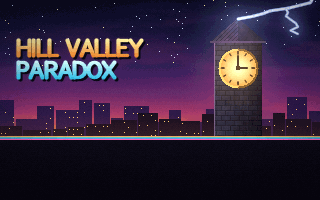
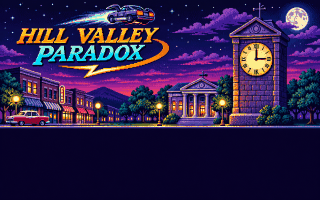
Eigenes Titelbild des Nutzers, Lademenü im dunklen Streifen
Vom Nutzer gezeichnete Bilder stehen in EIGENE_BILDER und werden von
npm run paint auch mit --force nie übermalt.

diff --git a/src/engine/TitleScene.ts b/src/engine/TitleScene.ts
@@ -10,6 +10,7 @@ const COLOR_NORMAL = UI_TEXT;
 const COLOR_HOVER = UI_AMBER;
 const COLOR_DIM = UI_DIM;
 const ROW_H = 10;
+const LOAD_ROW_H = 9;
 
 interface Row {
   label: Phaser.GameObjects.BitmapText;
@@ -22,6 +23,7 @@ export class TitleScene extends Phaser.Scene {
   private rows: Row[] = [];
   private message = '';
   private top = 142;
+  private rowH = ROW_H;
 
   constructor() {
     super('title');
@@ -58,7 +60,7 @@ export class TitleScene extends Phaser.Scene {
   }
 
   private addRow(text: string, action?: () => void): void {
-    const y = this.top + this.rows.length * ROW_H;
+    const y = this.top + this.rows.length * this.rowH;
     const label = this.add
       .bitmapText(160, y, 'hv', text, 10)
       .setOrigin(0.5, 0)
@@ -69,6 +71,7 @@ export class TitleScene extends Phaser.Scene {
   private showMain(): void {
     this.clear();
     this.top = 148;
+    this.rowH = ROW_H;
     this.addRow(t('title.neu'), () => this.startGame());
     this.addRow(t('title.laden'), () => this.showLoad());
     this.addRow(this.soundLabel(), () => {
@@ -83,7 +86,9 @@ export class TitleScene extends Phaser.Scene {
 
   private showLoad(): void {
     this.clear();
-    this.top = this.message ? 108 : 118;
+    // Das Lademenü liegt im dunklen Streifen unter dem Bild; mit Meldung reicht der Platz nicht ganz.
+    this.top = this.message ? 118 : 127;
+    this.rowH = LOAD_ROW_H;
     if (this.message) this.addRow(this.message);
     for (let slot = 0; slot < SLOT_COUNT; slot++) {
       const file = SaveSystem.peek(slot);
@@ -123,7 +128,7 @@ export class TitleScene extends Phaser.Scene {
   }
 
   private rowAt(y: number): Row | undefined {
-    return this.rows.find((row) => y >= row.y && y < row.y + ROW_H);
+    return this.rows.find((row) => y >= row.y && y < row.y + this.rowH);
   }
 
   private highlight(y: number): void {

diff --git a/tools/paint/build.ts b/tools/paint/build.ts
@@ -106,6 +106,9 @@ const UI: Record<string, () => Picture> = {
   menu: U.menu,
 };
 
+/** Vom Nutzer gezeichnete Bilder: Sie werden nie übermalt, auch nicht mit --force oder Namensfilter. */
+const EIGENE_BILDER = new Set(['titel']);
+
 const args = process.argv.slice(2);
 const force = args.includes('--force');
 const filter = args.find((a) => !a.startsWith('--'));
@@ -113,7 +116,7 @@ const filter = args.find((a) => !a.startsWith('--'));
 let painted = 0;
 let kept = 0;
 const run = (name: string, path: string, paint: () => Picture, transparent: boolean): void => {
-  if (filter && !name.includes(filter)) return;
+  if (EIGENE_BILDER.has(name) || (filter && !name.includes(filter))) return;
   if (!filter && !force && existsSync(path)) {
     kept++;
     return;

diff --git a/CLAUDE.md b/CLAUDE.md
@@ -22,7 +22,7 @@ Point-&-Click-Adventure im SCUMM-Stil. Phaser 4, TypeScript, Vite, inkjs, navmes
 - **Jede Aktion bekommt eine Antwort.** Reihenfolge: Hotspot-Skript → Kombinationsregel → objektspezifischer Kommentar (`comments` am Hotspot, dann Reaktionstabellen) → Standardspruch der Figur.
 - **Reaktionstabellen in `de.json`:** `reaktion.<raum>_<jahr>.<hotspot>.<verb>`, dazu `mit_<gegenstand>`, `mit` und `gib` für zwei Objekte; `reaktion_item.<gegenstand>.<verb>`, dazu `mit_<gegenstand>`, `benutze_mit` und `gib_an`. Ein Wert ist ein Text der aktiven Figur oder `["sprecher", "Text"]`. Standardsprüche unter `comments.<figur>`, mit eigenen Pools `person`, `ausgang`, `gegenstand` und je Zeitebene `e<jahr>`. `tests/m8-texte.spec.ts` meldet tote oder falsch zugeordnete Einträge. Reaktionen dürfen nichts am Spielstand ändern und müssen zu jedem Zustand der Klickfläche passen.
 - **Stimmen:** Marty lässig, kurz, ironisch. Junger Doc zögerlich („vermutlich“, „das sollte ich notieren“). Doc mit Ausrufen und „Das ist ein Problem!“. Die Tannens verdrehen Sprichwörter. Dialoge haben höchstens 4 Antworten je Knoten; Nebengespräche liegen in eigenen Knoten, Rätselantworten bleiben auf der ersten Ebene.
-- **Grafik:** Hintergründe, große Sprites, Titelbild, Oberfläche (`ui.ts`), Gegenstände (`items.ts`) und Figuren (`figuren.ts`), die letzten beiden in sechsfacher Größe gemalt und verkleinert, malt `tools/paint/` in Echtfarben (`painter.ts`, Materialien in `kit.ts`, je Ort ein Modul); jedes Bild bekommt dann seine eigene 256-Farben-Palette. Stil: The Dig, Full Throttle, jede Zeitebene mit eigener Stimmung. Klickflächen stehen in `src/game/rooms/` und bestimmen, wo gemalt wird. Kleine Sprites kommen aus `tools/pixel/` mit der festen 64-Farben-Palette (`assets/palette.gpl`). Die Spielschrift steht in `tools/pixel/font.ts` (`#` voll, `+` halb hell für Rundungen; Tint färbt sie), die Schrift auf gemalten Schildern getrennt in `tools/paint/schrift.ts` (Stile `antiqua`, `block`, `western`, `neon`, Stämme auf dem Pixelraster); `schild.ts` liefert nur noch Einzelzeichen für Gegenstände und das Breitenmaß. Die Farben der Oberfläche stehen in `src/engine/theme.ts`. Eigene PNGs gleichen Namens ersetzen jedes Bild; `npm run paint` lässt vorhandene Dateien liegen. Keine Filmgesichter, keine Filmkostüme und kein Film-Fahrzeug zeichnen: Die Figuren tragen die Namen der Geschichte, sehen aber erfunden aus.
+- **Grafik:** Hintergründe, große Sprites, Titelbild, Oberfläche (`ui.ts`), Gegenstände (`items.ts`) und Figuren (`figuren.ts`), die letzten beiden in sechsfacher Größe gemalt und verkleinert, malt `tools/paint/` in Echtfarben (`painter.ts`, Materialien in `kit.ts`, je Ort ein Modul); jedes Bild bekommt dann seine eigene 256-Farben-Palette. Stil: The Dig, Full Throttle, jede Zeitebene mit eigener Stimmung. Klickflächen stehen in `src/game/rooms/` und bestimmen, wo gemalt wird. Kleine Sprites kommen aus `tools/pixel/` mit der festen 64-Farben-Palette (`assets/palette.gpl`). Die Spielschrift steht in `tools/pixel/font.ts` (`#` voll, `+` halb hell für Rundungen; Tint färbt sie), die Schrift auf gemalten Schildern getrennt in `tools/paint/schrift.ts` (Stile `antiqua`, `block`, `western`, `neon`, Stämme auf dem Pixelraster); `schild.ts` liefert nur noch Einzelzeichen für Gegenstände und das Breitenmaß. Die Farben der Oberfläche stehen in `src/engine/theme.ts`. Eigene PNGs gleichen Namens ersetzen jedes Bild; `npm run paint` lässt vorhandene Dateien liegen. Vom Nutzer gezeichnete Bilder stehen in `EIGENE_BILDER` (`tools/paint/build.ts`) und werden auch mit `--force` nie übermalt. Keine Filmgesichter, keine Filmkostüme und kein Film-Fahrzeug zeichnen: Die Figuren tragen die Namen der Geschichte, sehen aber erfunden aus.
 - **Figuren:** nur über `assets/characters/characters.json`. Sprites in `assets/characters/<figur>/<figur>_<animation>.png`, 40×72 je Frame, alle Frames in einer Zeile; die Frame-Anzahl ergibt sich aus der Bildbreite. Aussehen und Gerüst stehen in `tools/paint/figuren.ts` (`LOOKS`). `height` in `characters.json` ist die Figurenhöhe, darüber stehen die Sprechtexte. Fehlt eine Animation, greift eine Ersatzregel. Eigene PNGs müssen ohne Codeänderung funktionieren. Die Klickfläche einer Nebenfigur steht beim Hotspot im Raum und muss zur Figurenhöhe passen.
 - **Fahrzeuge:** liegen unter `assets/characters/<name>/`, eingebunden als Hotspot-Sprite. Zeitzug (180×76) und Wagen im Museum (130×44) malen `zeitzug` und `zeitwagen` in `tools/paint/sprites.ts` (eigene Entwürfe, ohne Filmsymbol).
 - **Audio:** eigene Stücke, nie Filmmusik. Alle Stücke teilen ein Leitmotiv (`tools/audio/build.ts`, Stufen statt Noten; FM-Stimmen in `synth.ts`). Listen, Stimmen und Zuordnung zur Zeitebene in `src/game/audio.ts`, Dateien unter `assets/audio/<name>.wav`; gleichnamige Datei ersetzen genügt. `M` schaltet stumm. Der Ton lädt im Hintergrund (`engine/AudioLoadScene.ts`); das Spiel wartet nie darauf, ein Stück setzt ein, sobald seine Datei da ist.
